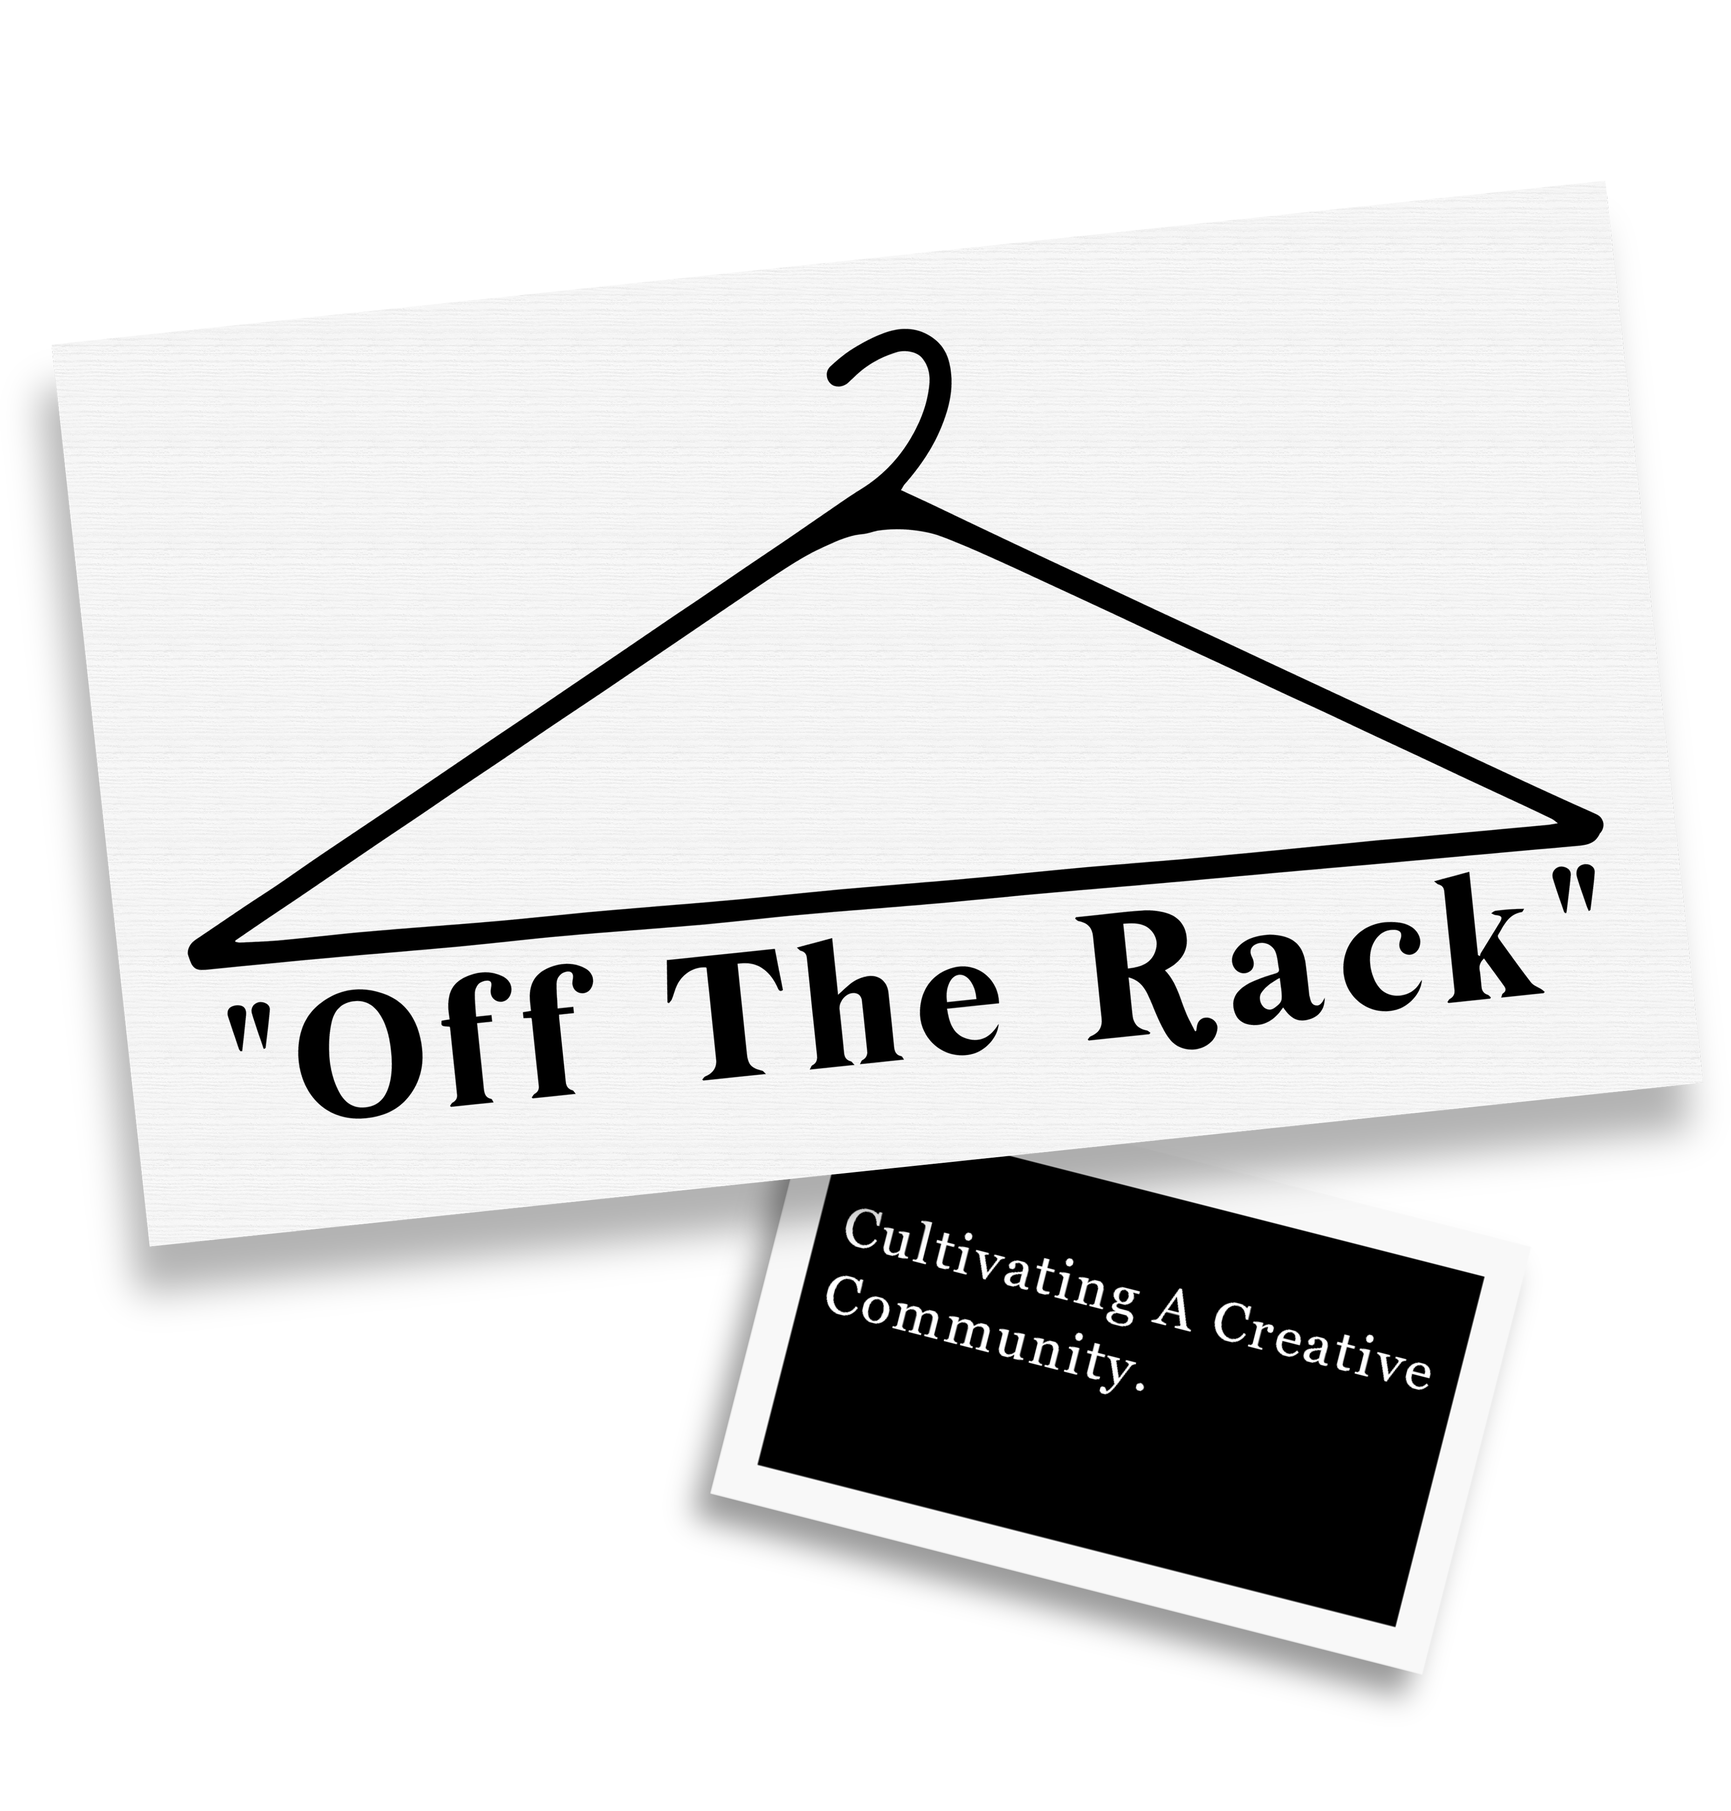
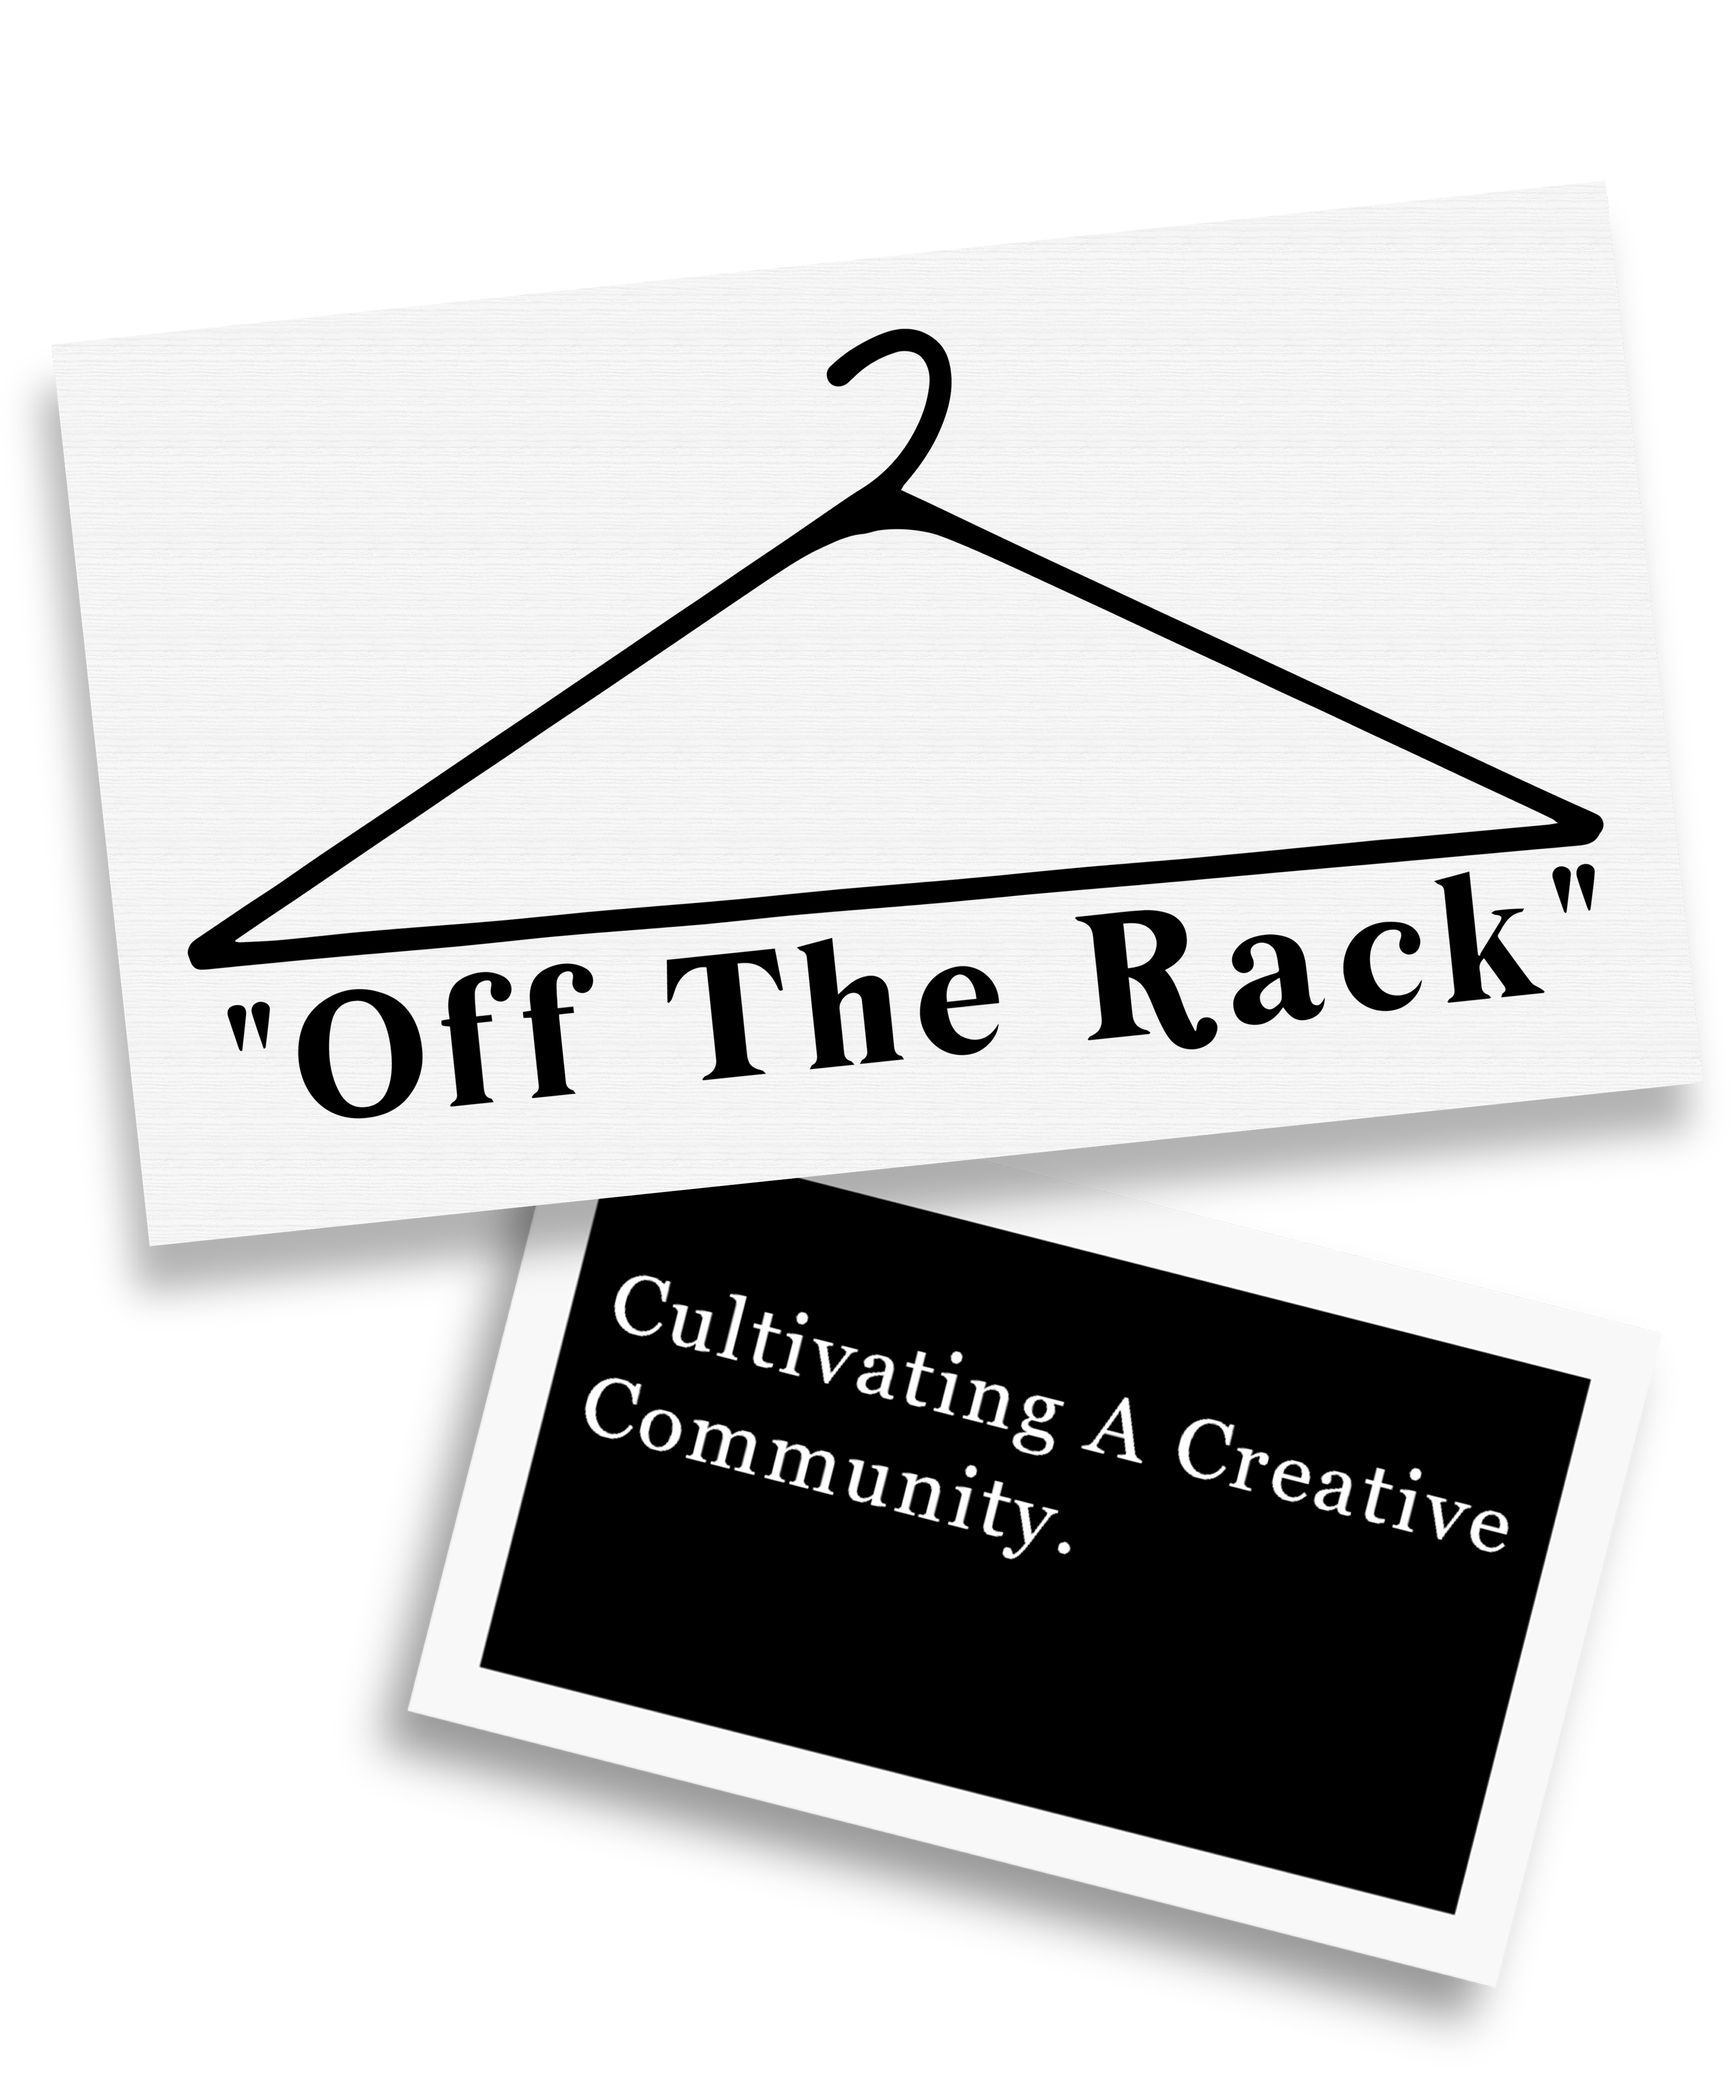
update home page

Changed region(s): [[0.0625, 0.1557, 0.9995, 0.9964], [0.0, 0.1868, 0.0625, 0.4359]]

diff --git a/_site/css/styles.css b/_site/css/styles.css
@@ -862,7 +862,7 @@ section .about-row {
   padding-top: 25px;
 }
 .square{
-  margin-top: 100px;
+  margin-top: 50px;
   border: 5px solid black;
   border-radius: 10px;
   padding-bottom: 20px;
@@ -897,8 +897,8 @@ section .about-row {
 /* Tablets */
 @media (min-width: 600px) and (max-width: 1049px) {
   .square {
-    width: 450px;
-    height: 450px;
+    width: 600px;
+    height: 600px;
   }
   .box-title {
     font-size: 40px;
@@ -913,8 +913,8 @@ section .about-row {
 /* Desktop */
 @media (min-width: 1050px) {
   .square {
-    width: 500px;
-    height: 500px;
+    width: 600px;
+    height: 600px;
   }
   .box-title {
     font-size: 45px;

diff --git a/css/styles.css b/css/styles.css
@@ -862,7 +862,7 @@ section .about-row {
   padding-top: 25px;
 }
 .square{
-  margin-top: 100px;
+  margin-top: 50px;
   border: 5px solid black;
   border-radius: 10px;
   padding-bottom: 20px;
@@ -897,8 +897,8 @@ section .about-row {
 /* Tablets */
 @media (min-width: 600px) and (max-width: 1049px) {
   .square {
-    width: 450px;
-    height: 450px;
+    width: 600px;
+    height: 600px;
   }
   .box-title {
     font-size: 40px;
@@ -913,8 +913,8 @@ section .about-row {
 /* Desktop */
 @media (min-width: 1050px) {
   .square {
-    width: 500px;
-    height: 500px;
+    width: 600px;
+    height: 600px;
   }
   .box-title {
     font-size: 45px;

diff --git a/_site/vendors.html b/_site/vendors.html
@@ -75,9 +75,10 @@
 									<p>
 										<info-2></info-2>
 									</p>
-									<a href="../" class="home-btn">Reserve Space</a>
 
 								</div>
+								<br>
+								<a href="../" class="home-btn">Reserve Space</a>
 
 
 							</div>

diff --git a/vendors.html b/vendors.html
@@ -61,9 +61,10 @@
 									<p>
 										<info-2></info-2>
 									</p>
-									<a href="../" class="home-btn">Reserve Space</a>
 
 								</div>
+								<br>
+								<a href="../" class="home-btn">Reserve Space</a>
 
 
 							</div>
